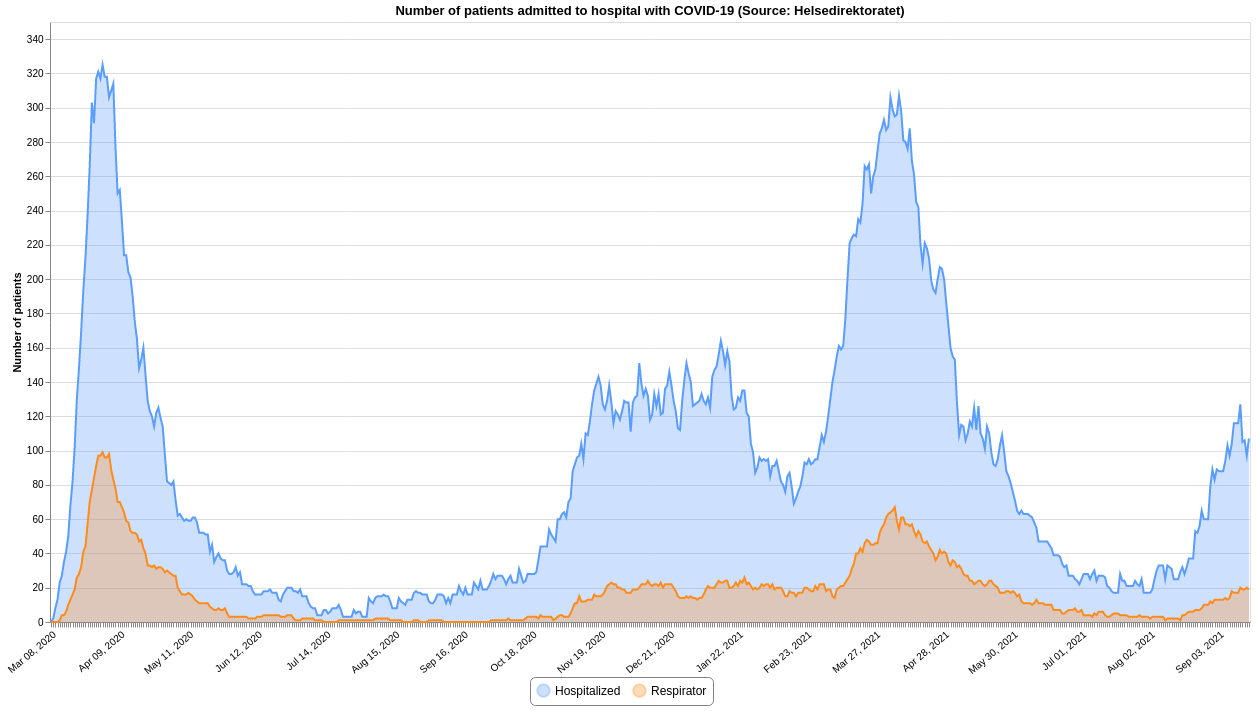
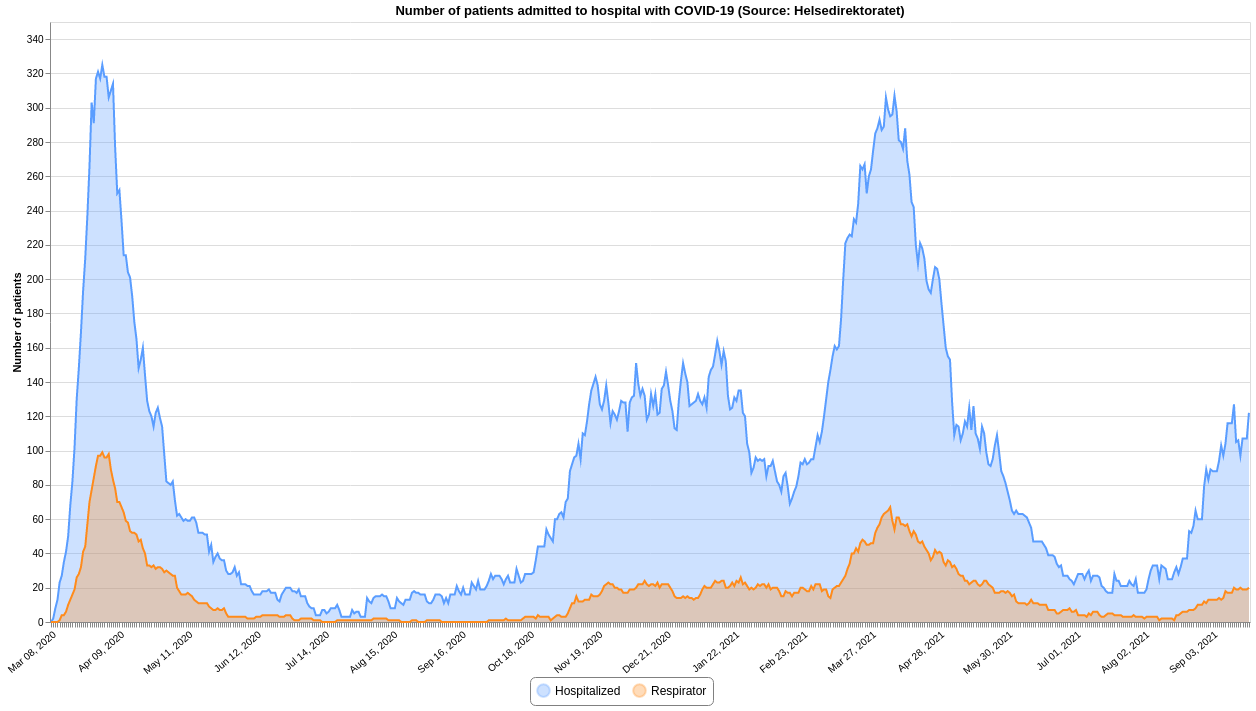
Updated 2021-09-20 12:21

diff --git a/README.md b/README.md
@@ -12,7 +12,7 @@ This repository contains datasets of daily time-series data related to COVID-19 
 | :--- | :--- | :--- | :--- | :--- |
 |[Confirmed](#confirmedcsv)|FHI / MSIS|2021-09-20 00:10:47+02:00|[<center>csv</center>](https://raw.githubusercontent.com/frefrik/covid19norge-data/main/data/confirmed.csv)|[<center>preview</center>](data/confirmed.csv)|
 |[Dead](#deadcsv)|FHI|2021-09-17 13:20:50+02:00|[<center>csv</center>](https://raw.githubusercontent.com/frefrik/covid19norge-data/main/data/dead.csv)|[<center>preview</center>](data/dead.csv)|
-|[Hospitalized](#hospitalizedcsv)|Helsedirektoratet|2021-09-17 12:50:42+02:00|[<center>csv</center>](https://raw.githubusercontent.com/frefrik/covid19norge-data/main/data/hospitalized.csv)|[<center>preview</center>](data/hospitalized.csv)|
+|[Hospitalized](#hospitalizedcsv)|Helsedirektoratet|2021-09-20 12:20:49+02:00|[<center>csv</center>](https://raw.githubusercontent.com/frefrik/covid19norge-data/main/data/hospitalized.csv)|[<center>preview</center>](data/hospitalized.csv)|
 |[Tested](#testedcsv)|FHI|2021-09-17 13:10:51+02:00|[<center>csv</center>](https://raw.githubusercontent.com/frefrik/covid19norge-data/main/data/tested.csv)|[<center>preview</center>](data/tested.csv)|
 |[Tested Lab](#tested_labcsv)|FHI|2021-09-17 13:20:47+02:00|[<center>csv</center>](https://raw.githubusercontent.com/frefrik/covid19norge-data/main/data/tested_lab.csv)|[<center>preview</center>](data/tested_lab.csv)|
 |[Transport](#transportcsv)|FHI|2021-09-20 09:00:53+02:00|[<center>csv</center>](https://raw.githubusercontent.com/frefrik/covid19norge-data/main/data/transport.csv)|[<center>preview</center>](data/transport.csv)|
